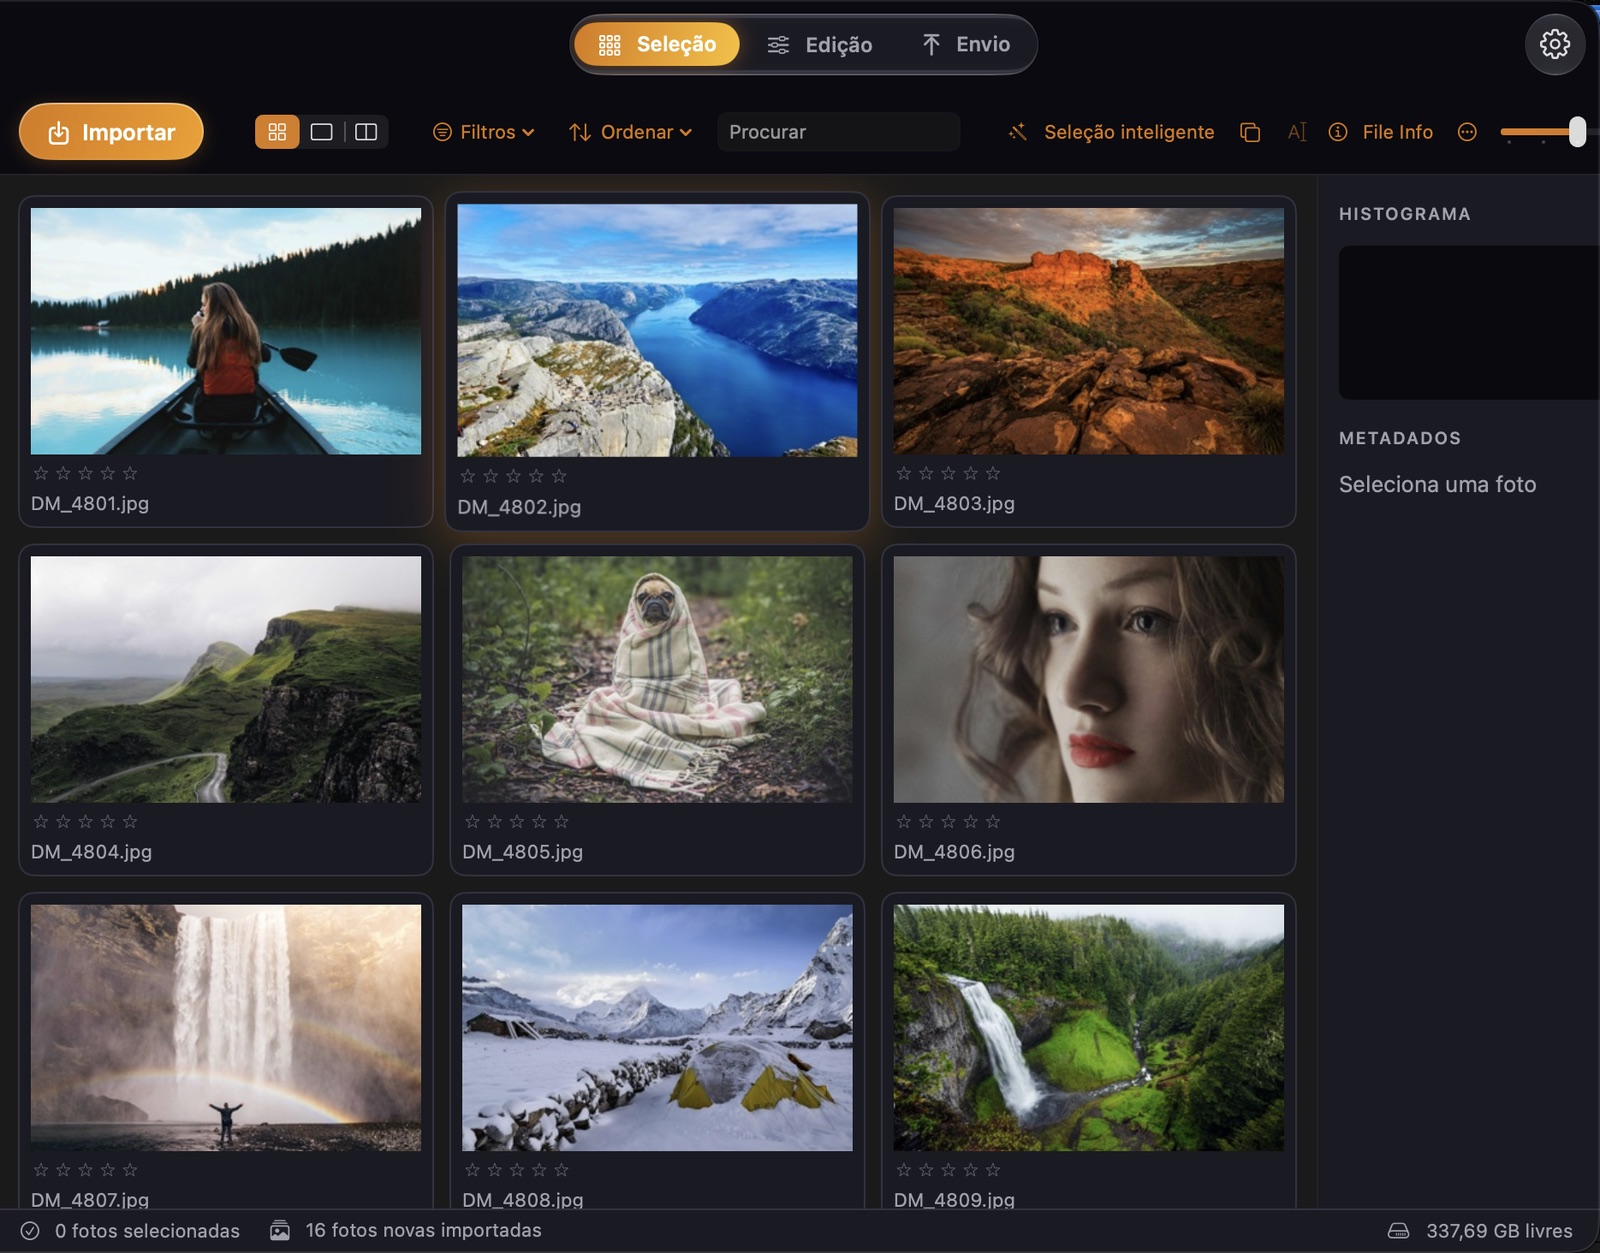
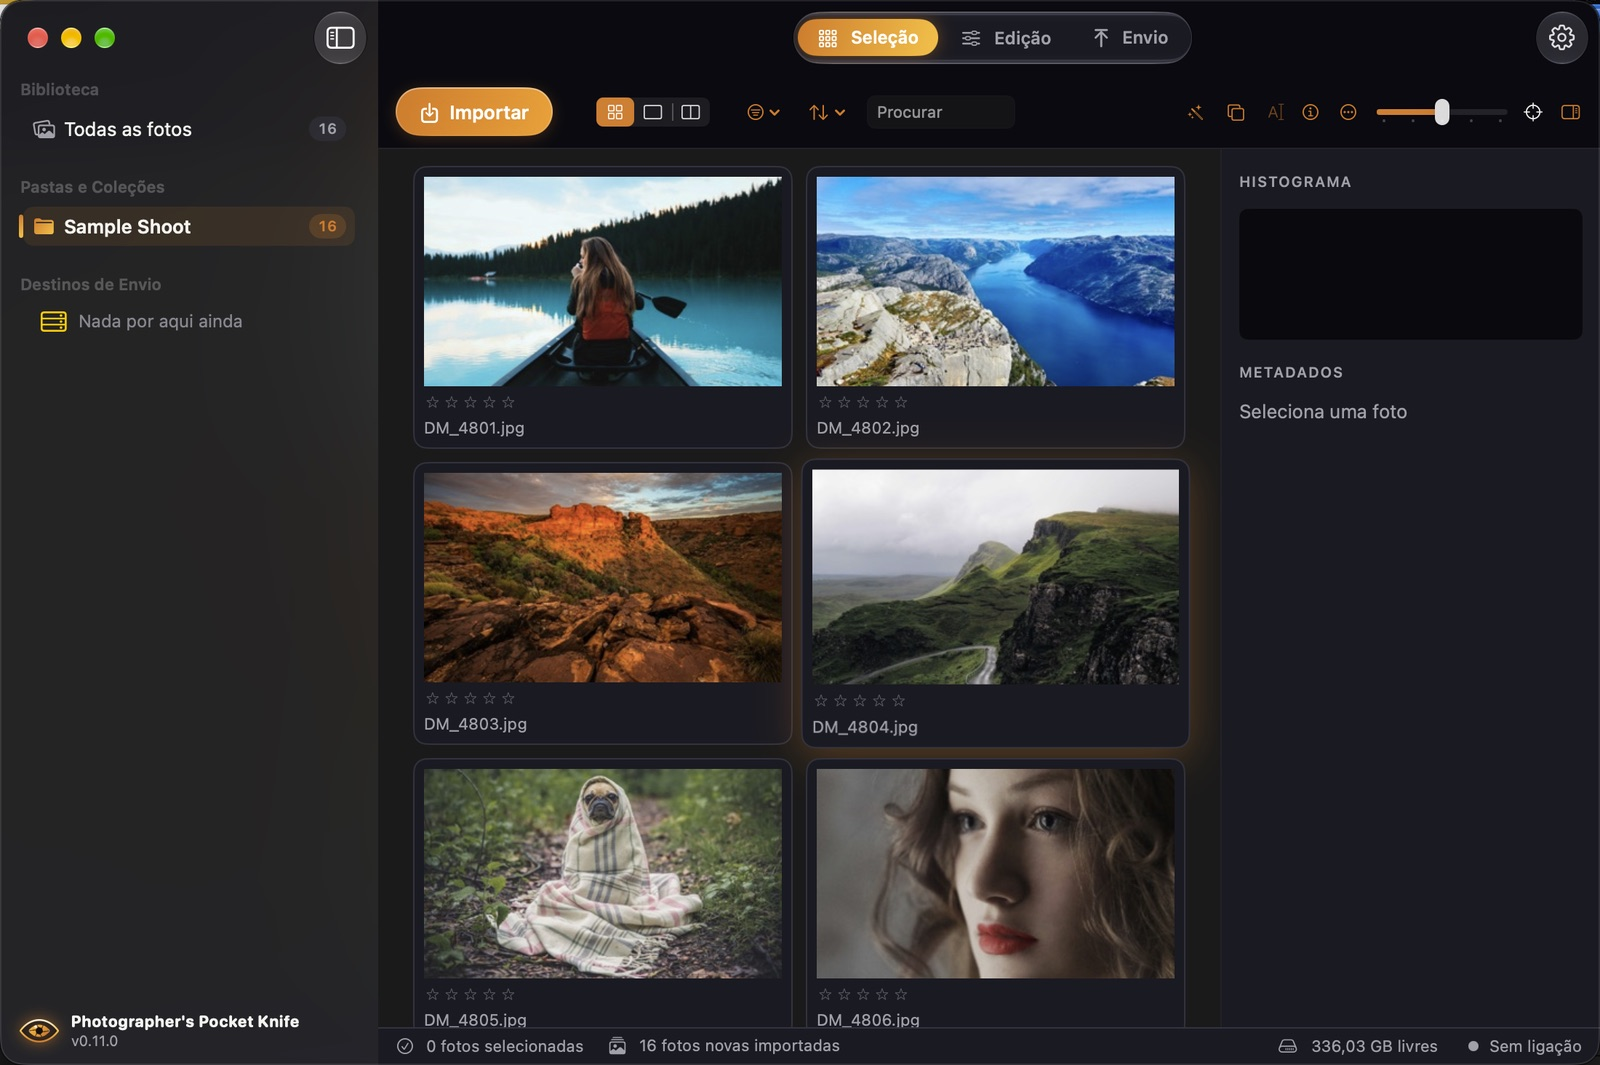
Keep the sidebar whole at the minimum window width

diff --git a/Modules/Culling/CullingView.swift b/Modules/Culling/CullingView.swift
@@ -140,7 +140,18 @@ struct CullingToolbar: View {
     let photos: [Photo]
     let visible: [Photo]
 
+    // Com a barra lateral aberta e a janela no mínimo (1100 pt), a barra completa não cabe e o
+    // NavigationSplitView encolhia a barra lateral abaixo do mínimo, cortando-a à esquerda.
+    // Quando falta espaço, entra a versão só com ícones.
     var body: some View {
+        ViewThatFits(in: .horizontal) {
+            bar(compact: false)
+            bar(compact: true)
+        }
+    }
+
+    @ViewBuilder
+    private func bar(compact: Bool) -> some View {
         @Bindable var c = app.culling
         let cameras = Set(photos.compactMap(\.camera)).sorted()
         let lenses = Set(photos.compactMap(\.lens)).sorted()
@@ -192,8 +203,10 @@ struct CullingToolbar: View {
                 Button(app.t("filter.clear")) { c.clearFilters() }
             } label: {
                 Label(app.t("filter.title"), systemImage: c.hasActiveFilters ? "line.3.horizontal.decrease.circle.fill" : "line.3.horizontal.decrease.circle")
+                    .toolbarLabelStyle(compact: compact)
             }
             .fixedSize()
+            .help(app.t("filter.title"))
 
             Menu {
                 Picker(app.t("sort.title"), selection: $c.sort) {
@@ -202,12 +215,14 @@ struct CullingToolbar: View {
                 Toggle(app.t("sort.ascending"), isOn: $c.sortAscending)
             } label: {
                 Label(app.t("sort.title"), systemImage: "arrow.up.arrow.down")
+                    .toolbarLabelStyle(compact: compact)
             }
             .fixedSize()
+            .help(app.t("sort.title"))
 
             TextField(app.t("filter.search"), text: $c.searchText)
                 .textFieldStyle(.roundedBorder)
-                .frame(width: 140)
+                .frame(width: compact ? 100 : 140)
 
             Spacer()
 
@@ -223,7 +238,7 @@ struct CullingToolbar: View {
                     ProgressView().controlSize(.mini)
                 } else {
                     Label(app.t("cull.title"), systemImage: "wand.and.stars")
-                        .labelStyle(.titleAndIcon)
+                        .toolbarLabelStyle(compact: compact)
                         .lineLimit(1)
                         .foregroundStyle(Brand.orange)
                 }
@@ -266,7 +281,7 @@ struct CullingToolbar: View {
                 .disabled(!hasTargets)
             Button { c.activeSheet = .fileInfo } label: {
                 Label(app.t("fileInfo.title"), systemImage: "info.circle")
-                    .labelStyle(.titleAndIcon)
+                    .toolbarLabelStyle(compact: compact)
                     .lineLimit(1)
             }
             .fixedSize()

diff --git a/DesignSystem/Typography.swift b/DesignSystem/Typography.swift
@@ -7,3 +7,15 @@ enum Typography {
     static let body = Font.system(size: 13)
     static let caption = Font.system(size: 11)
 }
+
+extension View {
+    /// Etiqueta com texto e ícone, ou só ícone quando a barra não tem espaço.
+    @ViewBuilder
+    func toolbarLabelStyle(compact: Bool) -> some View {
+        if compact {
+            labelStyle(.iconOnly)
+        } else {
+            labelStyle(.titleAndIcon)
+        }
+    }
+}

diff --git a/README.md b/README.md
@@ -6,7 +6,7 @@
 [![Request Feature](https://img.shields.io/badge/Request-Feature-blue)](https://github.com/VidiPT89/PhotographersPocketKnife/issues)
 [![CI](https://github.com/VidiPT89/PhotographersPocketKnife/actions/workflows/ci.yml/badge.svg)](https://github.com/VidiPT89/PhotographersPocketKnife/actions/workflows/ci.yml)
 
-![Cull module: a 16-photo shoot in the contact sheet, with filters, smart selection, histogram and metadata (UI in Portuguese, the app is bilingual)](assets/cull.jpg)
+![Cull module: the catalog sidebar, a 16-photo shoot in the contact sheet, the culling toolbar, histogram and metadata (UI in Portuguese, the app is bilingual)](assets/cull.jpg)
 
 ## ✨ Features
 
